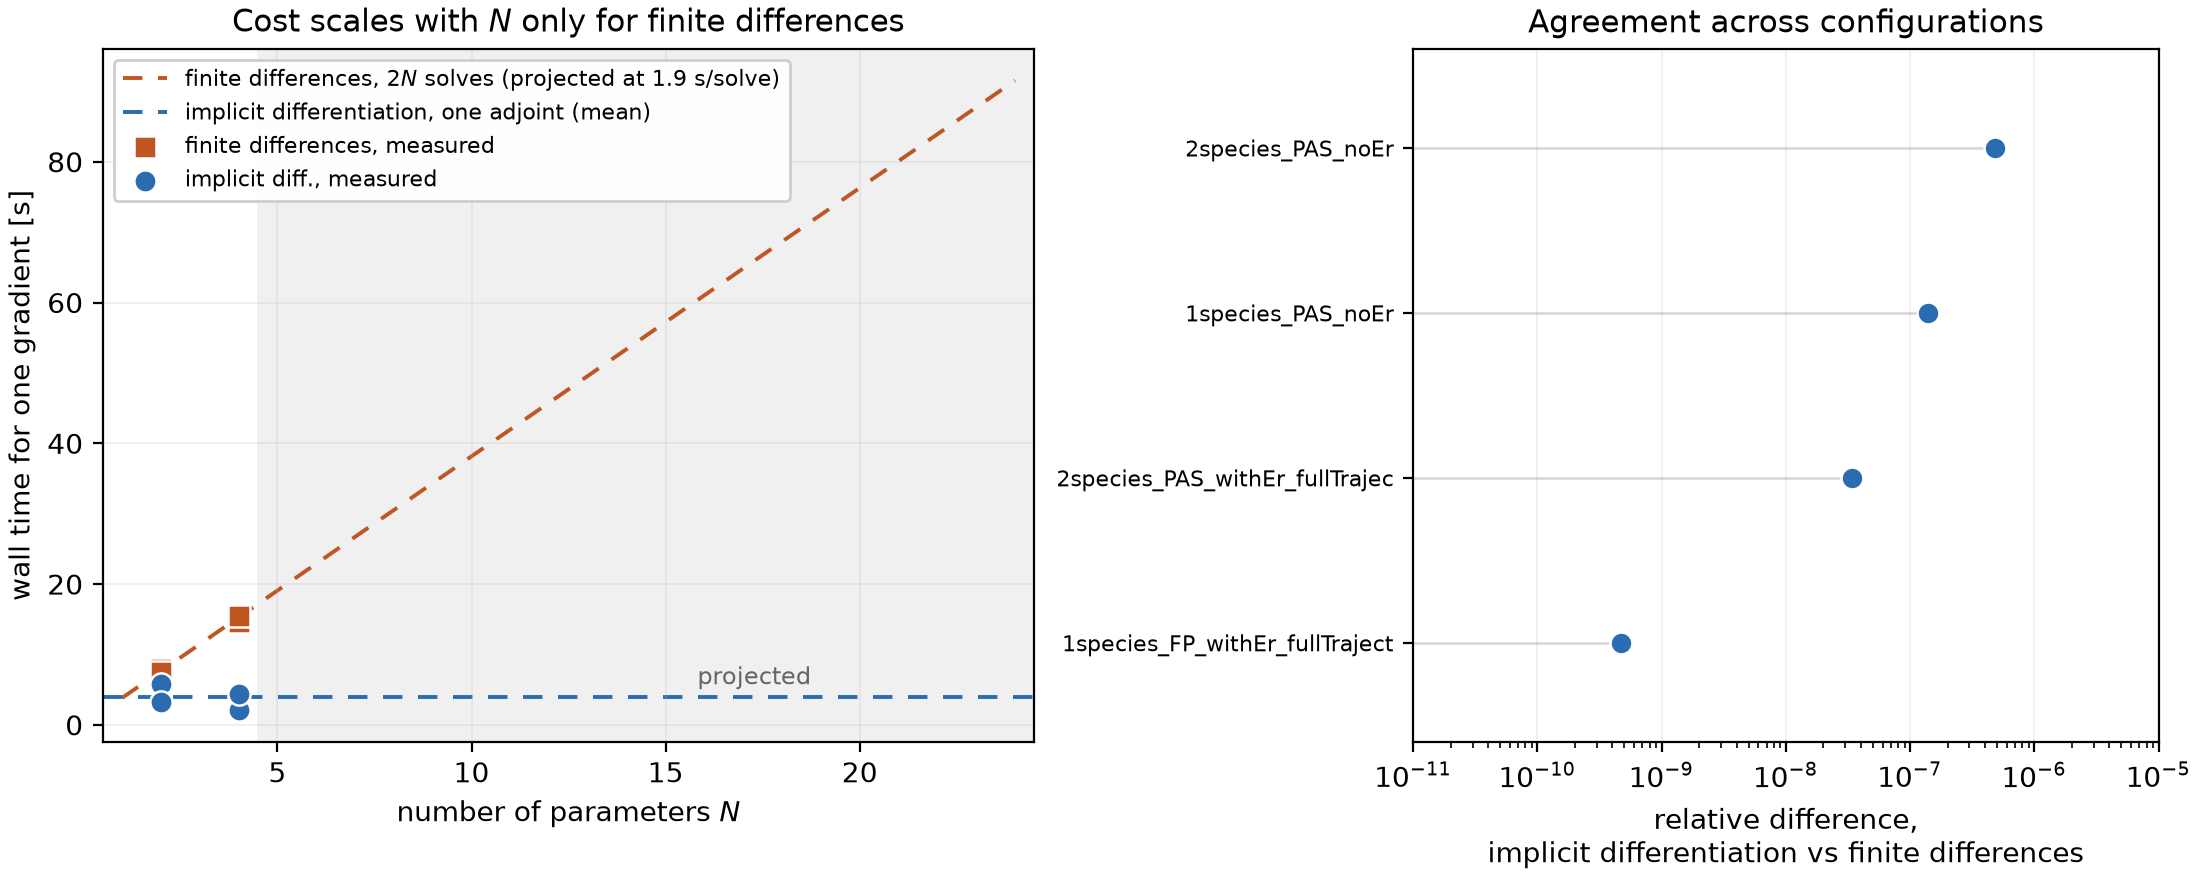
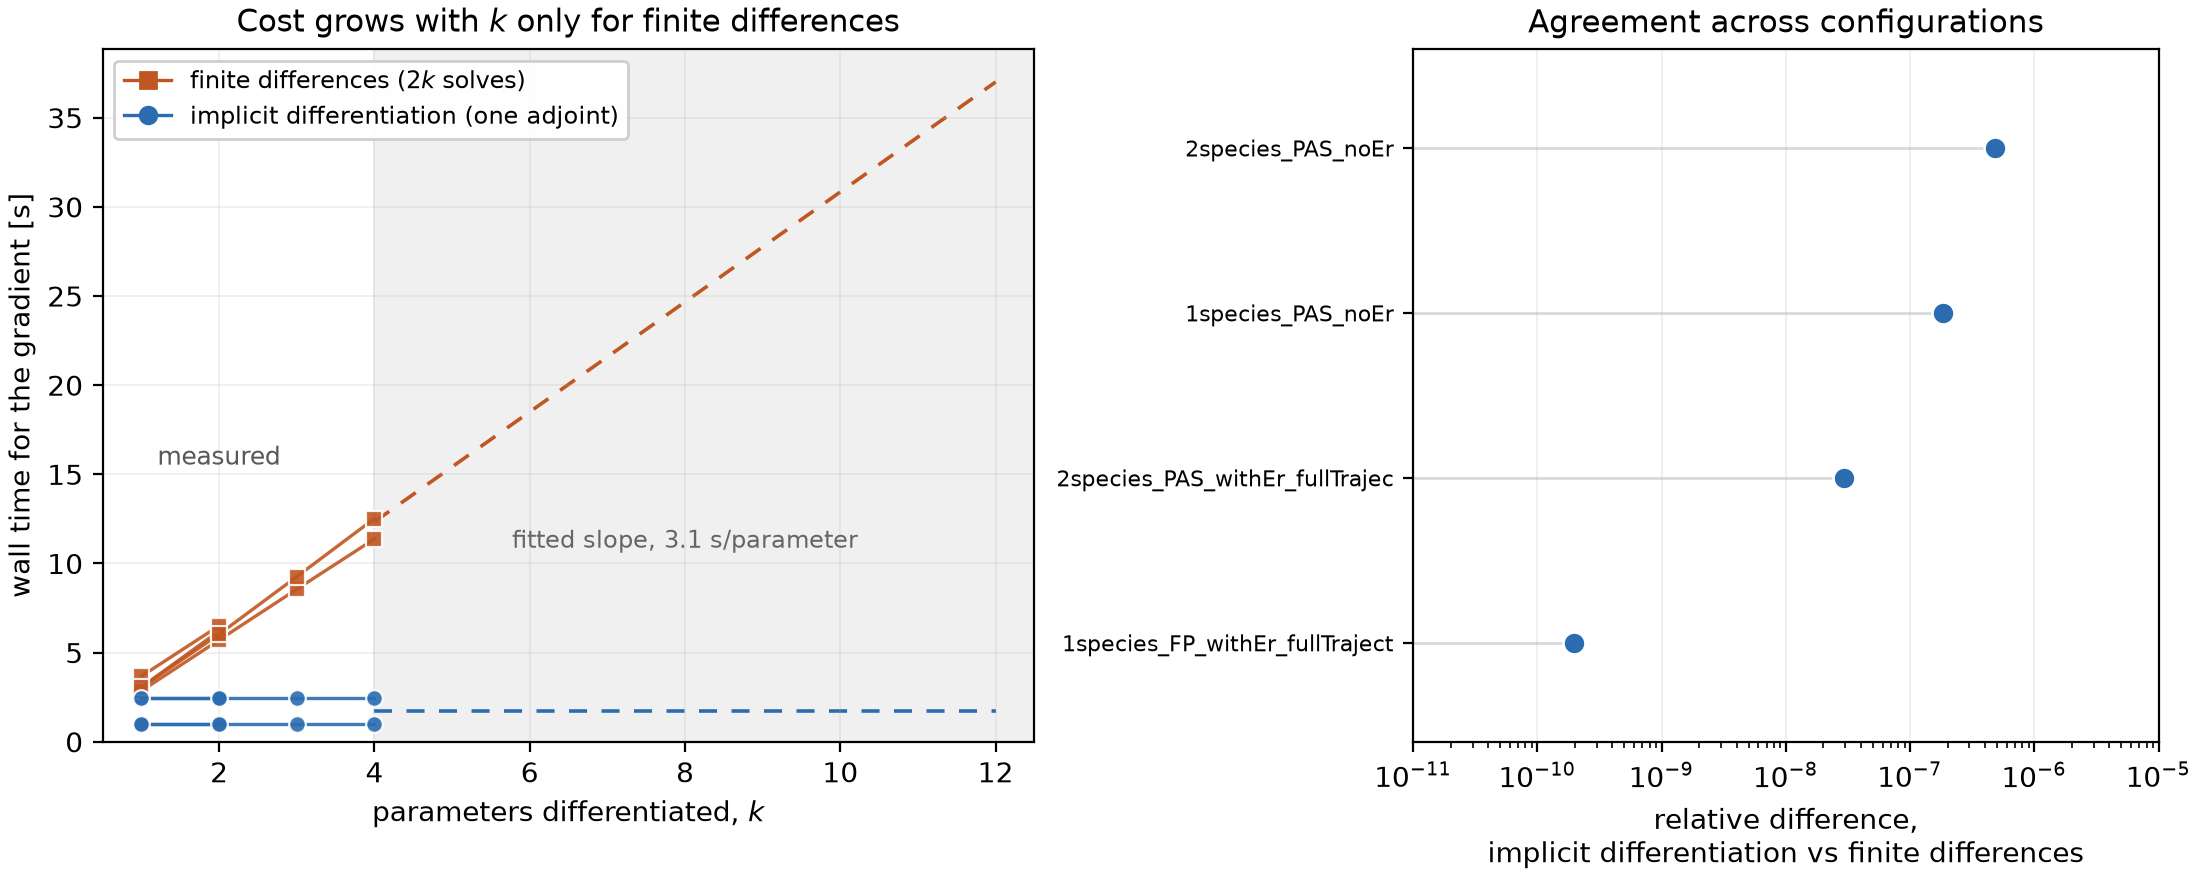
Measure the gradient-cost scaling instead of projecting it
The previous figure had two measured parameter counts and extended a line
from the mean per-solve cost. The slope was the whole claim, so it should
be data.

ad_vs_fortran_fd now records the wall time of the two solves each
parameter needs. Summing prefixes of that gives the measured cost of a
k-parameter gradient, so every point on the finite-difference curve is a
measurement rather than an extrapolation from one. On the two-species
decks that is four points and they are linear -- 2.86, 5.71, 8.56, 11.37
seconds -- against a flat one-adjoint cost, for a fitted slope of 3.1
s/parameter.

The figure plots the measured curves per deck and shades where the fitted
slope takes over, so the boundary between data and extension is visible
rather than described. The projection range is shortened from 24 to 12
parameters: with the slope measured there is no reason to extend it far
enough to squeeze the data into a corner.

README additions are condensed to keep the file under its 320-line cap,
with the reasoning in docs/differentiability.rst where the policy expects
it. Sphinx verified by its own exit status this time - the earlier check
piped it into tail and read tail's status instead.

Full suite: 1249 passed, 10 skipped.

diff --git a/examples/paper_benchmarks/gradient_cost_scaling.py b/examples/paper_benchmarks/gradient_cost_scaling.py
@@ -58,10 +58,9 @@ FIG_PATH = (
     / "gradient_cost_scaling.png"
 )
 
-#: How far to project the finite-difference cost line.  Beyond the measured
-#: points this is arithmetic on the measured per-solve cost, not a measurement,
-#: and the figure says so.
-PROJECT_TO = 24
+#: Cost is measured at every ``k`` up to each deck's parameter count; beyond
+#: that the fitted slope is extended, and the figure marks where data stops.
+PROJECT_TO = 12
 
 
 def load(directory: Path) -> list[dict]:
@@ -78,50 +77,68 @@ def load(directory: Path) -> list[dict]:
                 "fd_s": float(summary["fortran_wall_s"]),
                 "fd_solves": int(summary["fortran_solves"]),
                 "agreement": float(summary["best_agreement_rel"]),
+                # Measured cost of differentiating the first k parameters.
+                "cumulative_s": [
+                    float(v) for v in report["fortran_fd"][0].get("cumulative_s", [])
+                ],
             }
         )
     return sorted(rows, key=lambda r: (r["n"], r["case"]))
 
 
 def plot(rows: list[dict], path: Path) -> None:
-    """Wall time against parameter count, with the finite-difference slope."""
-    n = np.array([r["n"] for r in rows], dtype=float)
-    ad = np.array([r["ad_s"] for r in rows])
-    fd = np.array([r["fd_s"] for r in rows])
-
+    """Measured gradient cost against the number of parameters differentiated."""
     fig, (left, right) = plt.subplots(
         1, 2, figsize=(11.0, 4.4), constrained_layout=True,
         gridspec_kw={"width_ratios": [1.25, 1.0]},
     )
 
-    # Cost per solve, averaged over the measured cases, drives the projection.
-    per_solve = float(np.mean(fd / np.array([r["fd_solves"] for r in rows])))
-    grid = np.arange(1, PROJECT_TO + 1)
-    left.plot(grid, 2.0 * grid * per_solve, color="#c05621", lw=1.4, ls=(0, (5, 4)),
-              zorder=1, label=f"finite differences, $2N$ solves (projected at "
-                             f"{per_solve:.1f} s/solve)")
-    left.axhline(float(np.mean(ad)), color="#2b6cb0", lw=1.4, ls=(0, (5, 4)),
-                 zorder=1, label="implicit differentiation, one adjoint (mean)")
-    left.scatter(n, fd, s=64, color="#c05621", marker="s", zorder=3,
-                 edgecolor="white", linewidth=0.9, label="finite differences, measured")
-    left.scatter(n, ad, s=64, color="#2b6cb0", zorder=3,
-                 edgecolor="white", linewidth=0.9, label="implicit diff., measured")
+    # Every finite-difference point below is measured: the tool records the wall
+    # time of the two solves each parameter needs, so the cost of a k-parameter
+    # gradient is a partial sum rather than an extrapolation.
+    slopes = []
+    for row in rows:
+        cumulative = row["cumulative_s"]
+        if not cumulative:
+            continue
+        k = np.arange(1, len(cumulative) + 1)
+        left.plot(k, cumulative, color="#c05621", lw=1.2, marker="s", ms=6,
+                  mec="white", mew=0.8, zorder=3, alpha=0.9)
+        left.plot(k, np.full_like(k, row["ad_s"], dtype=float), color="#2b6cb0",
+                  lw=1.2, marker="o", ms=6, mec="white", mew=0.8, zorder=3, alpha=0.9)
+        slopes.append(cumulative[-1] / len(cumulative))
 
-    left.axvspan(float(n.max()) + 0.5, PROJECT_TO + 0.5, color="0.94", zorder=0)
-    left.annotate("projected", (PROJECT_TO * 0.72, left.get_ylim()[1] * 0.06),
+    slope = float(np.mean(slopes))
+    ad_mean = float(np.mean([r["ad_s"] for r in rows]))
+    measured_to = max(len(r["cumulative_s"]) for r in rows)
+    grid = np.arange(measured_to, PROJECT_TO + 1)
+    left.plot(grid, slope * grid, color="#c05621", lw=1.3, ls=(0, (5, 4)), zorder=1)
+    left.plot(grid, np.full_like(grid, ad_mean, dtype=float), color="#2b6cb0",
+              lw=1.3, ls=(0, (5, 4)), zorder=1)
+    left.axvspan(measured_to, PROJECT_TO + 0.5, color="0.94", zorder=0)
+    top = PROJECT_TO * slope * 1.05
+    left.annotate("measured", (measured_to / 2.0, top * 0.40), fontsize=9,
+                  color="0.35", ha="center")
+    left.annotate(f"fitted slope, {slope:.1f} s/parameter",
+                  (measured_to + (PROJECT_TO - measured_to) * 0.5, top * 0.28),
                   fontsize=8.5, color="0.4", ha="center")
-    left.set_xlabel("number of parameters $N$")
-    left.set_ylabel("wall time for one gradient [s]")
+
+    left.plot([], [], color="#c05621", lw=1.2, marker="s", ms=6,
+              label="finite differences ($2k$ solves)")
+    left.plot([], [], color="#2b6cb0", lw=1.2, marker="o", ms=6,
+              label="implicit differentiation (one adjoint)")
+    left.set_xlabel("parameters differentiated, $k$")
+    left.set_ylabel("wall time for the gradient [s]")
     left.set_xlim(0.5, PROJECT_TO + 0.5)
-    left.set_title("Cost scales with $N$ only for finite differences", fontsize=11)
+    left.set_ylim(0, PROJECT_TO * slope * 1.05)
+    left.set_title("Cost grows with $k$ only for finite differences", fontsize=11)
     left.grid(True, alpha=0.22, lw=0.6)
-    left.legend(fontsize=8, loc="upper left", framealpha=0.95)
+    left.legend(fontsize=8.5, loc="upper left", framealpha=0.95)
 
     agreement = np.array([r["agreement"] for r in rows])
     order = np.argsort(agreement)
     labels = [rows[i]["case"].replace("tokamak_", "").replace("Collisions", "")[:30]
               for i in order]
-    # Markers, not bars: on a log axis a bar's length carries no meaning.
     positions = np.arange(len(order))
     right.hlines(positions, 1e-11, agreement[order], color="0.85", lw=1.0, zorder=1)
     right.scatter(agreement[order], positions, s=62, color="#2b6cb0", zorder=3,

diff --git a/tools/benchmarks/ad_vs_fortran_fd.py b/tools/benchmarks/ad_vs_fortran_fd.py
@@ -181,6 +181,7 @@ def fortran_fd_gradient(
     deck = example_dir / "input.namelist"
     text = deck.read_text()
     gradient: list[float] = []
+    per_parameter: list[float] = []
     n_solves = 0
     start = time.perf_counter()
     for name in names:
@@ -191,8 +192,10 @@ def fortran_fd_gradient(
             plus, minus = list(values), list(values)
             plus[index] += h
             minus[index] -= h
+            mark = time.perf_counter()
             high = _run_fortran(example_dir, _write_vector(text, name, plus), binary, launcher)
             low = _run_fortran(example_dir, _write_vector(text, name, minus), binary, launcher)
+            per_parameter.append(round(time.perf_counter() - mark, 3))
             n_solves += 2
             gradient.append((high - low) / (2.0 * h))
     return {
@@ -200,6 +203,14 @@ def fortran_fd_gradient(
         "grad_wrt_namelist": gradient,
         "wall_s": round(time.perf_counter() - start, 2),
         "n_solves": n_solves,
+        # Wall time of the two solves each parameter needed.  Summing prefixes
+        # of this gives the *measured* cost of a k-parameter gradient, so the
+        # scaling is data rather than an extrapolation from one point.
+        "per_parameter_s": per_parameter,
+        # Cumulative cost of differentiating the first k parameters, k = 1..N.
+        "cumulative_s": [
+            round(sum(per_parameter[: k + 1]), 3) for k in range(len(per_parameter))
+        ],
     }
 
 

diff --git a/README.md b/README.md
@@ -129,10 +129,8 @@ database mode, batched GPU scans, a bounce-averaged 1/ν surrogate) — lives in
 
 Two codes agree only to the accuracy each one reaches. For left-preconditioned
 Krylov methods PETSc's default convergence test measures the *preconditioned*
-residual rather than the true one (`KSPSetNormType`), and SFINCS preconditions
-with a separately assembled simplified operator — so on some decks a run
-reports success at its requested `solverTolerance` while the returned state
-still leaves a large true residual.
+residual rather than the true one (`KSPSetNormType`), so a run can report
+success at its requested `solverTolerance` while leaving a large true residual.
 
 ![Reference true residual against the cross-code difference in output moments](docs/_static/figures/paper_benchmarks/reference_convergence.png)
 
@@ -146,11 +144,9 @@ to `5.0e-15` — to `3.1e-13`.
 This is not specific to SFINCS; a preconditioned-norm test is standard and
 usually adequate. The practical point is that a reference's own residual is
 worth checking before a disagreement is attributed to the code under test.
-
-*Reproduce with `python tools/benchmarks/parity_performance_matrix.py
---fortran-residual ...` then `python
-examples/paper_benchmarks/reference_convergence.py --results ...`; details in
-[docs/performance.rst](docs/performance.rst).*
+Reproduce with `parity_performance_matrix.py --fortran-residual` then
+`reference_convergence.py`; details in
+[docs/performance.rst](docs/performance.rst).
 
 ## Fast on CPU and GPU
 
@@ -202,19 +198,14 @@ the optional `vmex` + `booz_xform_jax` companions).*
 
 ![Gradient wall time against parameter count, and agreement across four configurations](docs/_static/figures/paper_benchmarks/gradient_cost_scaling.png)
 
-A central finite difference of `N` parameters costs `2N` converged solves.
-Implicit differentiation costs one transposed solve whatever `N` is. Measured
-against SFINCS finite differences on four upstream decks — one and two species,
-pitch-angle and Fokker-Planck collisions, zero and finite `Er` — the gradients
-agree to **4.7e-10 … 4.8e-07**.
-
-The timings sit at `N = 2` and `N = 4`, where the scaling argument is *least*
-favourable: the measured wall-time ratio is only 1.4×–7.1×, because four solves
-is the same order as one forward plus one adjoint. The claim is the slope, not
-the intercept — profile and geometry optimization run at `N` in the tens.
-
-*Reproduce with `python tools/benchmarks/ad_vs_fortran_fd.py` per deck, then
-`python examples/paper_benchmarks/gradient_cost_scaling.py --results ...`.*
+A central finite difference of `k` parameters costs `2k` converged solves;
+implicit differentiation costs one transposed solve whatever `k` is. Measured
+against SFINCS finite differences on four upstream decks (one and two species,
+pitch-angle and Fokker-Planck collisions, zero and finite `Er`), the gradients
+agree to **4.7e-10 … 4.8e-07**, and the finite-difference cost is linear in `k`
+(`2.86, 5.71, 8.56, 11.37` s) against a flat one-adjoint cost. At these small
+`k` the wall-time ratio is only 1.4×–7.1× — the claim is the slope, not the
+intercept. See [docs/differentiability.rst](docs/differentiability.rst).
 
 ## Monoenergetic (ICNTS) benchmarks
 

diff --git a/docs/differentiability.rst b/docs/differentiability.rst
@@ -279,12 +279,20 @@ iteration.
    gradient drives.  Regenerate with
    ``python examples/paper_benchmarks/gradient_cost_scaling.py --results ...``.
 
-The measurements sit at :math:`N = 2` and :math:`N = 4`, where the scaling
-argument is *least* favourable: four solves is the same order as one forward
-plus one adjoint, and the measured wall-time ratio is only 1.4x to 7.1x.  The
-claim is about the slope rather than the intercept.  Finite differences used
-exactly :math:`2N` solves in every case; profile and geometry optimization run
-at :math:`N` in the tens, where that slope dominates.
+The cost is measured at *every* :math:`k`, not extrapolated from one point:
+the harness records the wall time of the two solves each parameter needs, so
+the cost of a :math:`k`-parameter gradient is a partial sum.  On the
+two-species decks that gives four measured points, and they are linear --
+``2.86, 5.71, 8.56, 11.37`` seconds -- against a flat one-adjoint cost.  The
+fitted slope is ``3.1`` s/parameter.
+
+The absolute ratio at these :math:`k` is modest, and deliberately so: at
+:math:`k = 4` a finite difference needs eight solves, the same order as one
+forward plus one adjoint, so the measured wall-time ratio is only 1.4x to
+7.1x.  The claim is the slope rather than the intercept.  Profile and geometry
+optimization run at :math:`k` in the tens, where the slope dominates; the
+figure shades that range and marks the line there as fitted rather than
+measured.
 
 Agreement with the finite-difference gradient is ``4.7e-10`` to ``4.8e-07``
 across the four configurations.  Finite differences have no exact answer to
